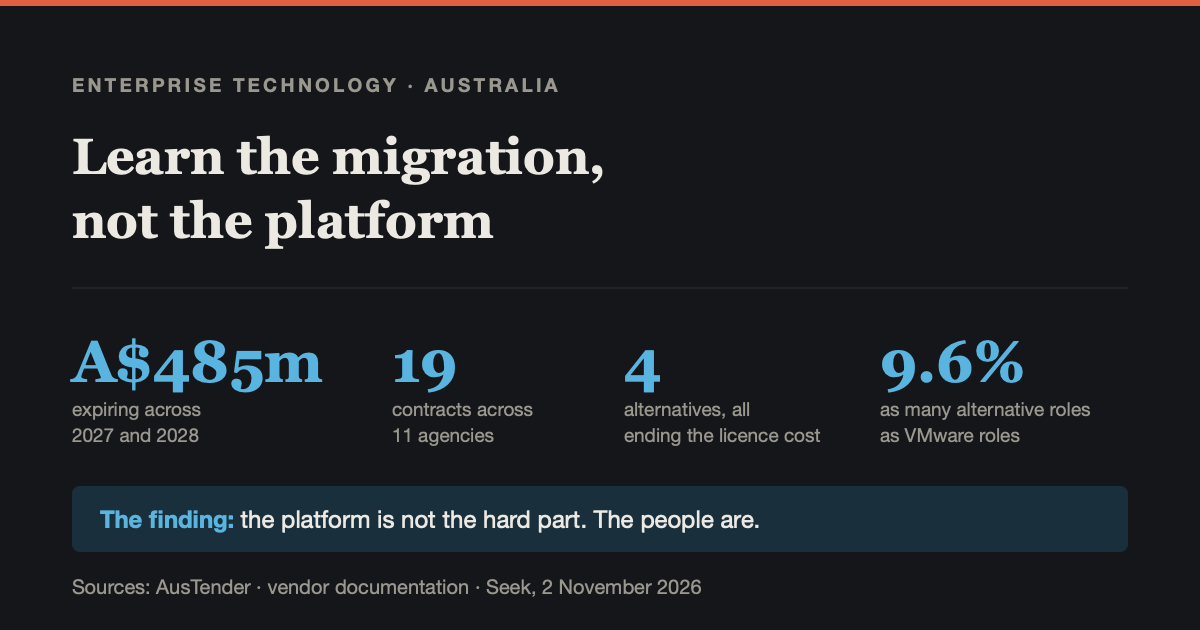
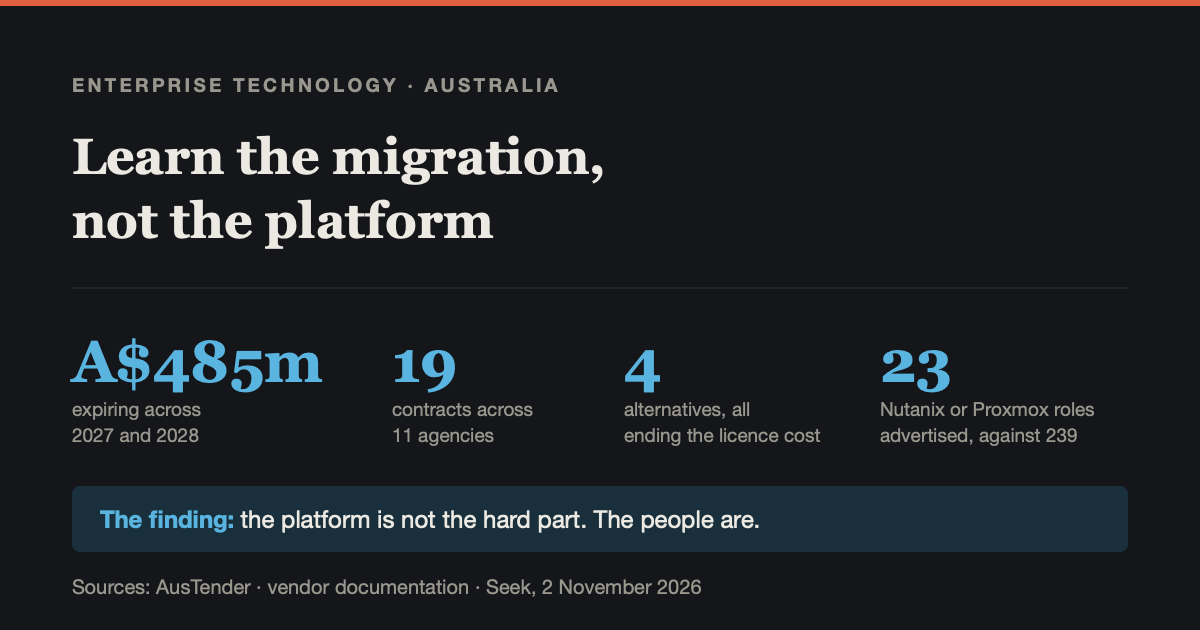
Correct what 9.6% measures, and say why Hyper-V is excluded
Both social cards described 9.6% as 'as many alternative roles as VMware
roles'. It is Nutanix plus Proxmox only; with Hyper-V counted the figure
is 52.3%. Replaced with a count that explains itself — 23 roles
advertised for Nutanix or Proxmox, against 239 for VMware.

The article now also says why the forecast counts only those two: all
three alternatives together are 125 roles against 239, but Hyper-V is
most of that and Windows shops ran it long before the repricing, so its
count reflects the installed Microsoft estate rather than anyone
leaving. Nutanix and Proxmox start near zero, which makes movement there
a cleaner if narrower signal.

Adds the portrait banner for posting as an image, where a phone renders
it at full width rather than in a thumbnail slot.

Changed region(s): [[0.7092, 0.5429, 0.925, 0.7238]]

diff --git a/_posts/2026-11-02-learn-the-migration.md b/_posts/2026-11-02-learn-the-migration.md
@@ -167,8 +167,15 @@ contract calendar, that is at best incomplete.
 VMware expertise stays relevant whether an organisation renews or leaves. A large installed base
 needs people to run it, and a move needs people who understand what is being replaced. The counts
 cannot tell you how much of the demand is which, and anyone citing them owes you the reading they
-mean. What they do show is that the alternatives are barely advertised yet — which is different
-from their never being.
+mean.
+
+One more thing they cannot tell you cleanly, and it is why the forecast below counts only Nutanix
+and Proxmox. Taken together, the three alternatives account for 125 advertised roles against
+VMware's 239 — a bit over half, which sounds like a market that has already arrived. But Hyper-V
+is most of that, and Windows shops were running Hyper-V long before Broadcom repriced anything, so
+its count says more about the installed Microsoft estate than about anyone leaving VMware. Nutanix
+and Proxmox start from almost nothing, which makes movement in those two a cleaner signal even
+though it is a narrower one.
 
 ## So, what would I learn
 
